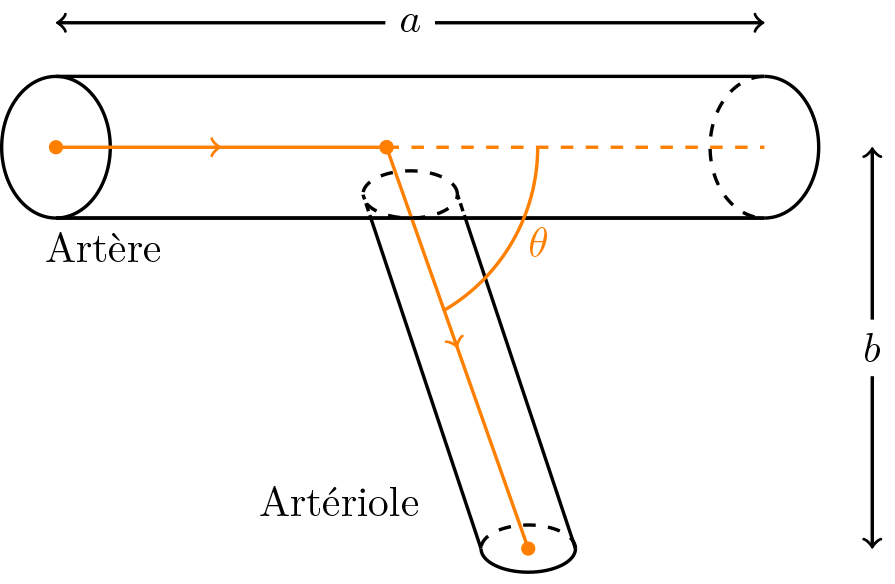
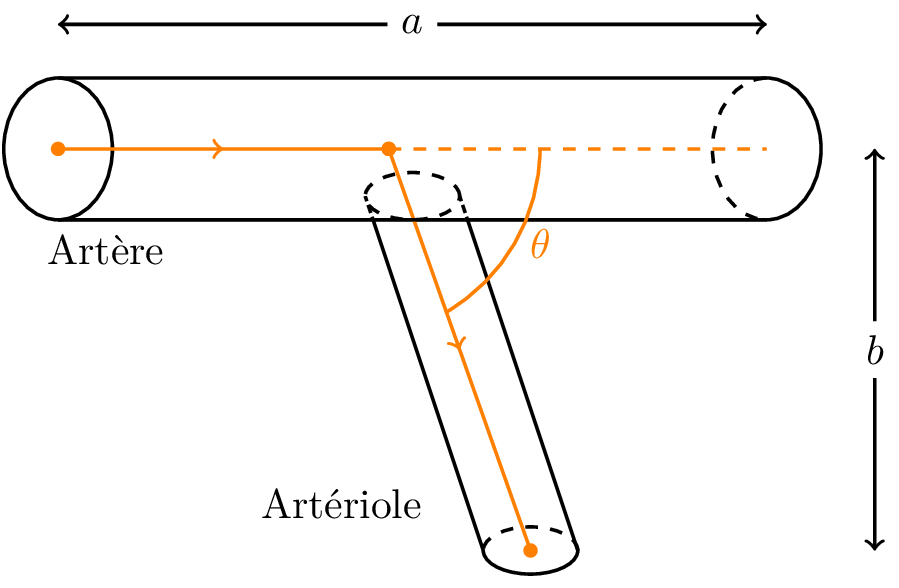
generation automatique de png

diff --git a/Figures/Figure_bio1.tex b/Figures/Figure_bio1.tex
@@ -1,10 +1,10 @@
-\documentclass[tikz]{standalone}
+\documentclass{standalone}% Ne pas oublier d'ajouter -shell-escape dans la commande de compilation pour également générer un png
 \usetikzlibrary{decorations.markings}
 \tikzset{->-/.style={decoration={%
     markings,
     mark=at position .5 with {\arrow{>}}},postaction={decorate}}
 }
-
+%
 \begin{document}
 \begin{tikzpicture}[scale=2]
     % Dessine l'artère
